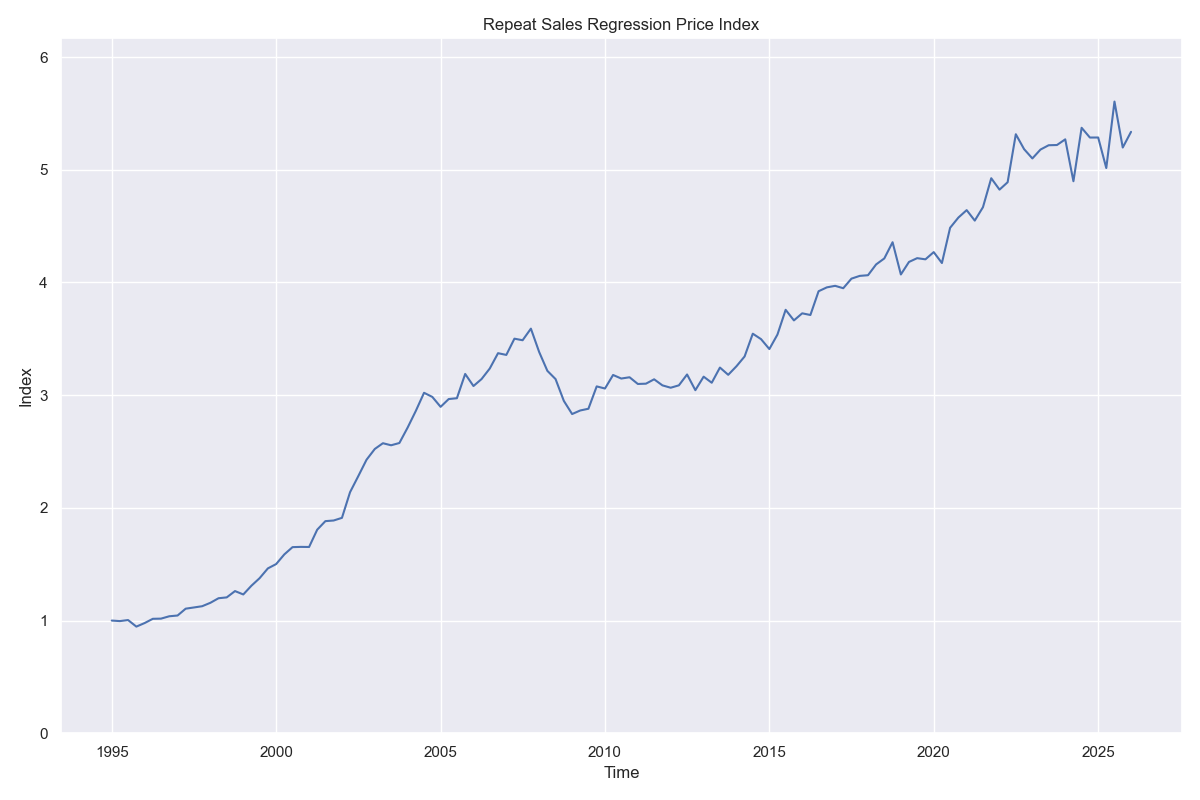
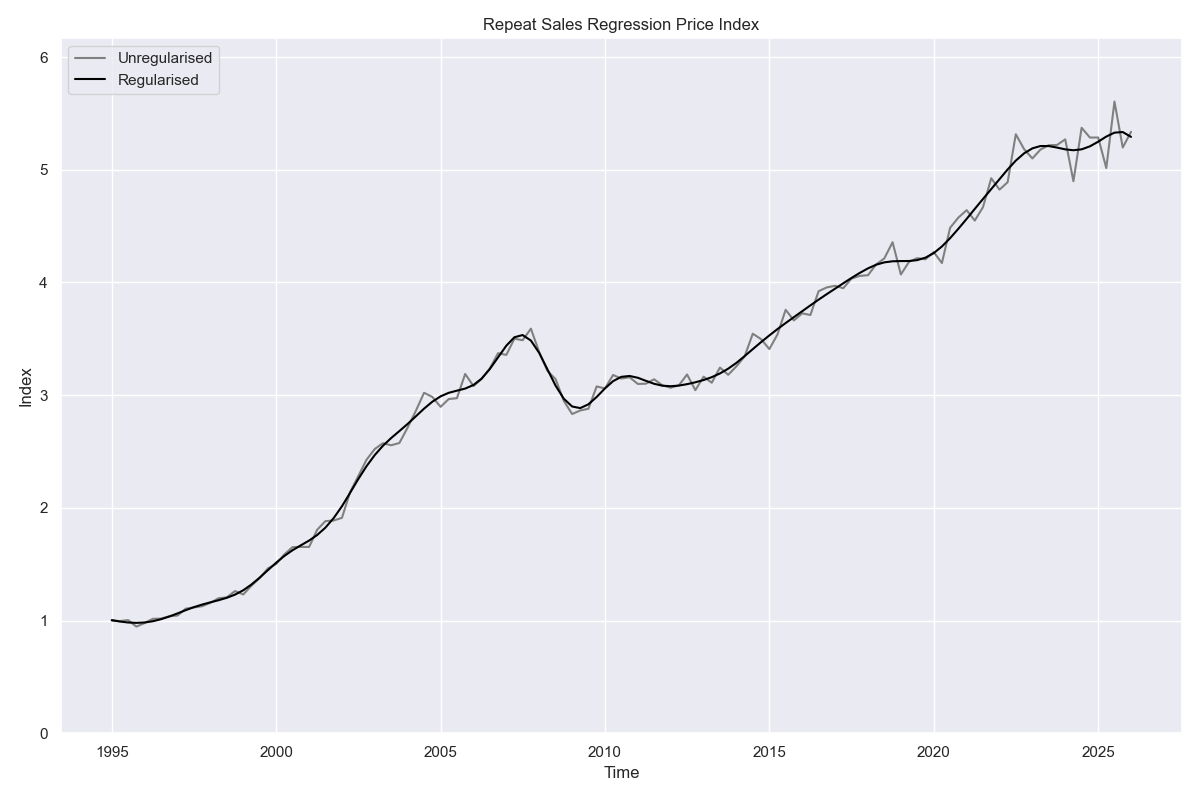
Add Gaussian Process Regression regularisation

diff --git a/utils.py b/utils.py
@@ -3,6 +3,8 @@ import pandas as pd
 import matplotlib.pyplot as plt
 import matplotlib.dates as mdates
 import seaborn as sns
+from sklearn.gaussian_process import GaussianProcessRegressor
+from sklearn.gaussian_process.kernels import RBF
 
 def process_ppd(file_in, file_out):
     
@@ -128,7 +130,26 @@ def generate_design_matrix(sale_pairs, period):
     return M
 
 
-def create_plot(date_values, hpi):
+def smooth_hpi(y, noise=0.01):
+
+    """
+    Apply Gaussian Process Regression (GPR) to smooth (regularise) raw repeat sales regression.
+    Noise parameter is an estimate of the uncertainty of repeat sales regression parameters.
+    These values can be in principle be extracted from the repeat sales regression.
+    Note the smoothness of the GPR is highly sensitive to the noise value.
+    """
+
+    X = np.arange(len(y)).reshape(-1, 1)
+    
+    kernel = 1 * RBF(length_scale=1.0, length_scale_bounds=(1e-2, 1e2))
+
+    gaussian_process = GaussianProcessRegressor(kernel=kernel, alpha=noise**2, n_restarts_optimizer=9)
+    gaussian_process.fit(X, y)
+
+    return gaussian_process.predict(X, return_std=False)
+
+
+def create_plot(date_values, hpi, hpi_smooth):
 
     """Plots index, saves to PNG."""
 
@@ -136,13 +157,15 @@ def create_plot(date_values, hpi):
 
     fig, ax = plt.subplots(figsize=(12,8))
 
-    plt.plot(date_values, hpi)
+    plt.plot(date_values, hpi, color="grey", label="Unregularised")
+    plt.plot(date_values, hpi_smooth, color="black", label="Regularised")
     plt.gca().xaxis.set_major_locator(mdates.YearLocator(5))
     plt.gca().xaxis.set_major_formatter(mdates.DateFormatter("%Y"))
     plt.ylim((0, 1.1 * max(hpi)))
     plt.xlabel("Time")
     plt.ylabel("Index")
     plt.title("Repeat Sales Regression Price Index")
+    plt.legend(loc='upper left')
     plt.tight_layout()
     plt.savefig("hpi_plot.png")
 

diff --git a/rsr.py b/rsr.py
@@ -6,10 +6,9 @@
 
 import numpy as np
 import pandas as pd
-import matplotlib.pyplot as plt
 from scipy.linalg import lstsq
 
-from utils import process_sale_pairs, generate_design_matrix, create_plot, process_ppd, generate_sale_pairs
+from utils import process_sale_pairs, generate_design_matrix, create_plot, smooth_hpi
 
 DIR = "data"
 period = "Q"
@@ -34,11 +33,15 @@ def main():
     # Add in base parameter as 0
     params = np.concatenate([[0], params])
 
+    # Regularisation using smoothing function
+    params_smooth = smooth_hpi(params, 0.015)
+
     # Exponentiate to recover House Price Index (HPI=1 in 1995)
     hpi = np.exp(params)
+    hpi_smooth = np.exp(params_smooth)
 
     # Generate plot
-    create_plot(date_values, hpi)
+    create_plot(date_values, hpi, hpi_smooth)
 
 
 if __name__ == "__main__":
